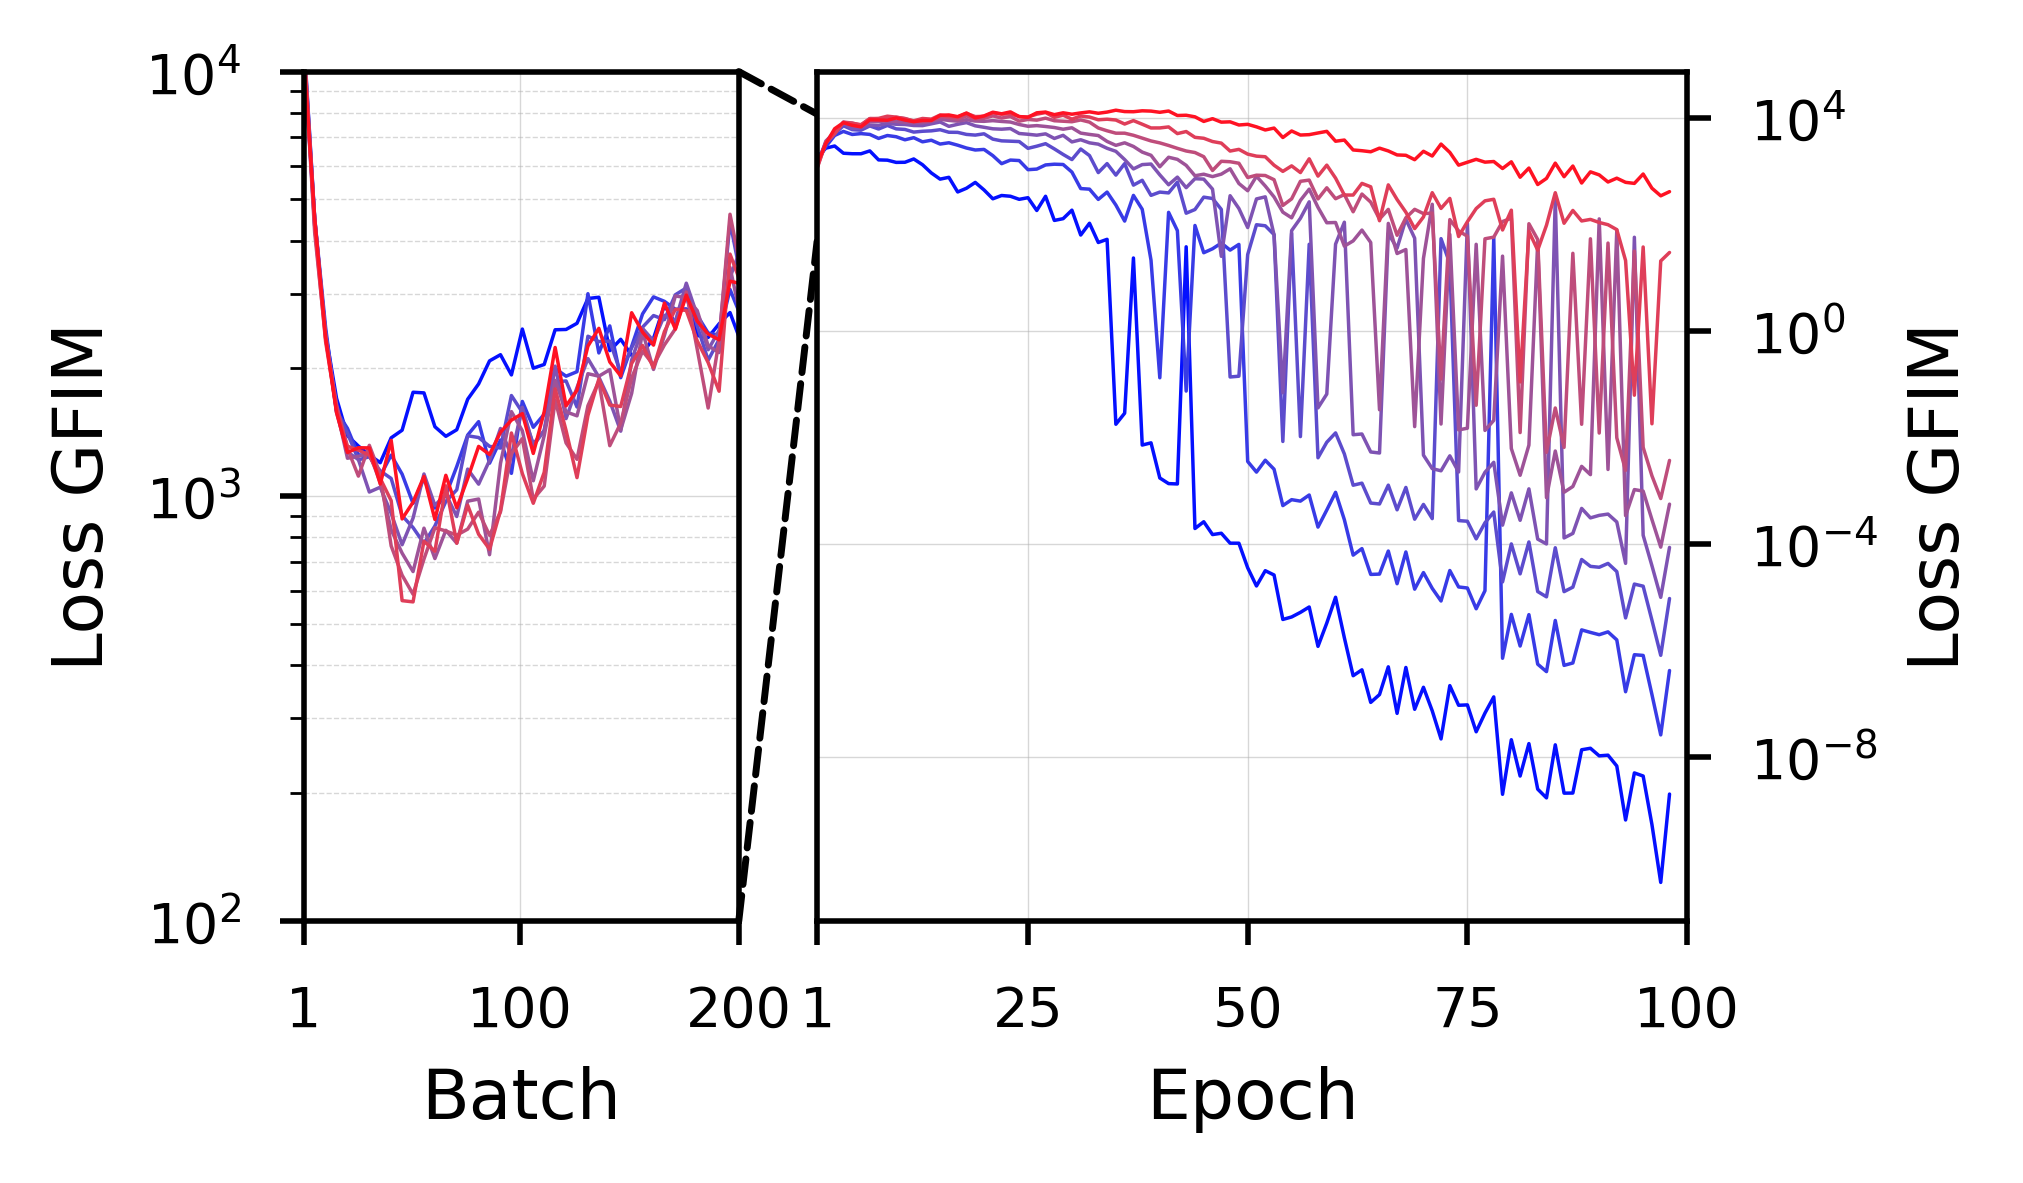
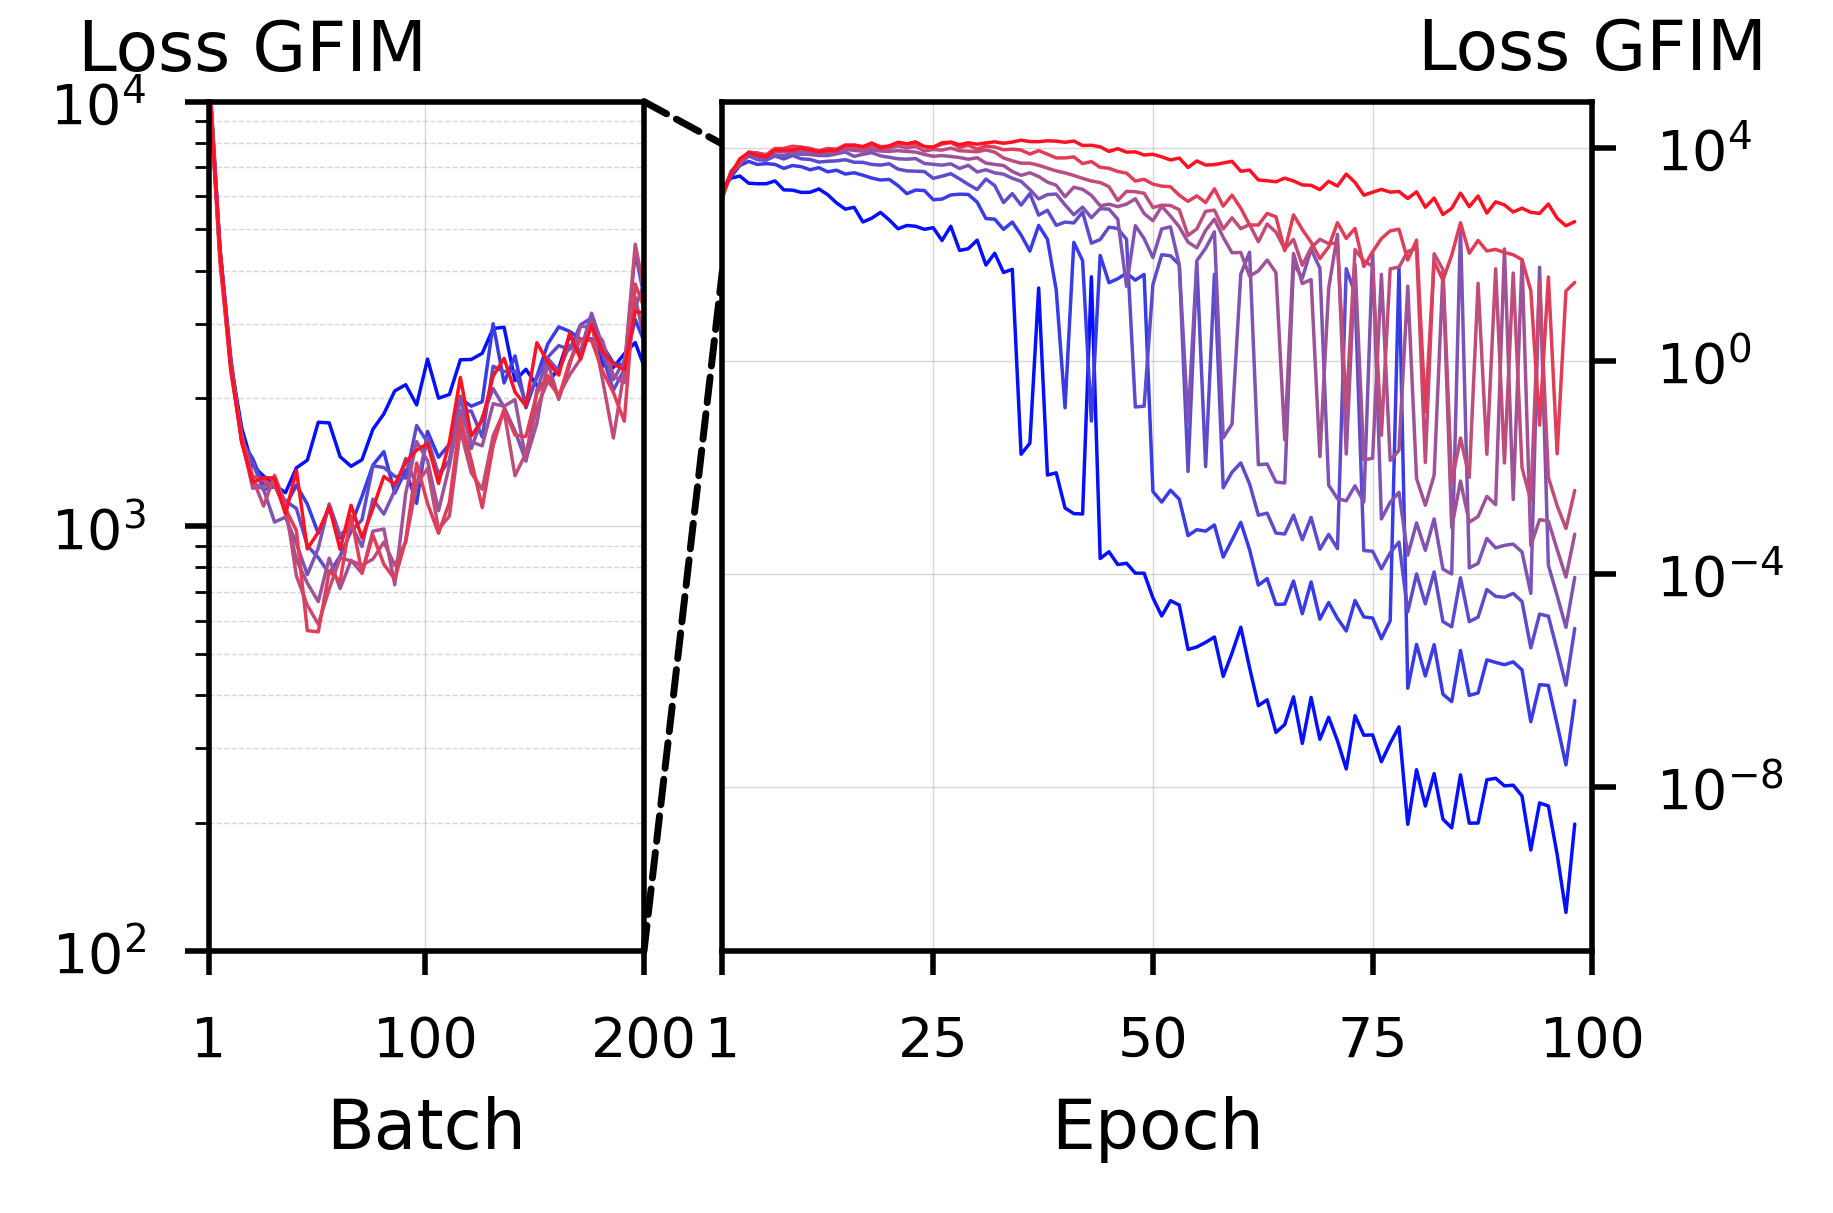
new pics

diff --git a/graphs.py b/graphs.py
@@ -110,9 +110,13 @@ def make_T1GFIM():
     sea.lineplot(ax=ax1,x="Step",y="7",data=T1FIMstep,label="7 (High)",linewidth=linsize,color=cols[7])
     
     #plt.ylabel("T1 GFIM")
-    ax1.set_ylabel("Loss GFIM")
+    ax1.set_ylabel("Loss GFIM",rotation=0)
+    #set y label location to above the y axis
+
     ax1.set_ylim([1,40])
     ax1.yaxis.set_ticks([1,10,20,30,40])
+    ax1.yaxis.set_label_coords(0.1,1.02)
+    #ax1.yaxis.set_label_rotation(90)
 
     ax1.set_xlabel("Batch")
     ax1.set_xlim([1,100])
@@ -141,8 +145,10 @@ def make_T1GFIM():
     ax2.set_xlim([1,70])
     ax2.xaxis.set_ticks([1,20,40,60])
 
-    ax2.set_ylabel("Loss GFIM")
+    ax2.set_ylabel("Loss GFIM",rotation=0)
+    
     ax2.yaxis.set_label_position("right")
+    ax2.yaxis.set_label_coords(1,1.1)
     ax2.yaxis.tick_right()
     ax2.set_yscale('log')
     ax2.yaxis.set_ticks([1e-12,1e-10,1e-8,1e-6,1e-4,1e-2,1e0,1e2,1e4])
@@ -189,9 +195,10 @@ def make_T2GFIM():
     sea.lineplot(ax=ax1,x="Step",y="7",data=FIMstep,label="7 (High)",linewidth=linsize,color=cols[7])
     
     #plt.ylabel("T1 GFIM")
-    ax1.set_ylabel("Loss GFIM")
+    ax1.set_ylabel("Loss GFIM",rotation=0)
     ax1.set_ylim([1,200])
     ax1.yaxis.set_ticks([1,50,100,150,200])
+    ax1.yaxis.set_label_coords(0.1,1.02)
 
     ax1.set_xlabel("Batch")
     ax1.set_xlim([1,100])
@@ -220,10 +227,12 @@ def make_T2GFIM():
     #set the range of x axis
     ax2.set_xlim([1,120])
     ax2.xaxis.set_ticks([1,20,40,60,80,100,120])
+    
 
-    ax2.set_ylabel("Loss GFIM")
+    ax2.set_ylabel("Loss GFIM",rotation=0)
     ax2.yaxis.set_label_position("right")
     ax2.yaxis.tick_right()
+    ax2.yaxis.set_label_coords(1,1.1)
     ax2.set_yscale('log')
     ax2.set_ylim([1e-12,1e4])
     ax2.yaxis.set_ticks([1e-12,1e-10,1e-8,1e-6,1e-4,1e-2,1e0,1e2,1e4])
@@ -271,7 +280,8 @@ def make_T3GFIM():
     sea.lineplot(ax=ax1,x="Step",y="7",data=FIMstep,label="7 (High)",linewidth=linsize,color=cols[7])
     
     #plt.ylabel("T1 GFIM")
-    ax1.set_ylabel("Loss GFIM")
+    ax1.set_ylabel("Loss GFIM",rotation=0)
+    ax1.yaxis.set_label_coords(0.1,1.02)
     ax1.set_ylim([1,2000])
     ax1.set_yscale('log')
     #ax1.yaxis.set_ticks([1,200,400,600,800,1000,1200,1400,1600,1800,2000])
@@ -305,8 +315,9 @@ def make_T3GFIM():
     ax2.set_xlim([1,160])
     ax2.xaxis.set_ticks([1,50,100,150])
 
-    ax2.set_ylabel("Loss GFIM")
+    ax2.set_ylabel("Loss GFIM",rotation=0)
     ax2.yaxis.set_label_position("right")
+    ax2.yaxis.set_label_coords(1,1.1)
     ax2.yaxis.tick_right()
     ax2.set_yscale('log')
     ax2.set_ylim([1e-12,1e5])
@@ -353,7 +364,8 @@ def make_T4GFIM():
     sea.lineplot(ax=ax1,x="Step",y="7",data=FIMstep,label="7 (High)",linewidth=linsize,color=cols[7])
     
     #plt.ylabel("T1 GFIM")
-    ax1.set_ylabel("Loss GFIM")
+    ax1.set_ylabel("Loss GFIM",rotation=0)
+    ax1.yaxis.set_label_coords(0.1,1.02)
     ax1.set_ylim([10,100000])
     ax1.set_yscale('log')
     #ax1.yaxis.set_ticks([1,100000])
@@ -387,7 +399,8 @@ def make_T4GFIM():
     ax2.set_xlim([1,50])
     ax2.xaxis.set_ticks([1,10,20,30,40,50])
 
-    ax2.set_ylabel("Loss GFIM")
+    ax2.set_ylabel("Loss GFIM",rotation=0)
+    ax2.yaxis.set_label_coords(1,1.1)
     ax2.yaxis.set_label_position("right")
     ax2.yaxis.tick_right()
     ax2.set_yscale('log')
@@ -504,32 +517,33 @@ def make_HAMcom():
 
     fig, (ax1,ax2) = plt.subplots(1,2,figsize=set_size(252),width_ratios=[1, 2],gridspec_kw={'wspace': 0.12})
 
-    sea.lineplot(ax=ax2,x="Step",y="0",data=FIMstep,label="0 (Low)",linewidth=linsize,color=cols[0])
-    sea.lineplot(ax=ax2,x="Step",y="1",data=FIMstep,label="1",linewidth=linsize,color=cols[1])
-    sea.lineplot(ax=ax2,x="Step",y="2",data=FIMstep,label="2",linewidth=linsize,color=cols[2])
-    sea.lineplot(ax=ax2,x="Step",y="3",data=FIMstep,label="3",linewidth=linsize,color=cols[3])
-    sea.lineplot(ax=ax2,x="Step",y="4",data=FIMstep,label="4",linewidth=linsize,color=cols[4])
-    sea.lineplot(ax=ax2,x="Step",y="5",data=FIMstep,label="5",linewidth=linsize,color=cols[5])
-    sea.lineplot(ax=ax2,x="Step",y="6",data=FIMstep,label="6",linewidth=linsize,color=cols[6])
-    sea.lineplot(ax=ax2,x="Step",y="7",data=FIMstep,label="7 (High)",linewidth=linsize,color=cols[7])
+    sea.lineplot(ax=ax2,x="Step",y="0",data=FIMstep,label="_nolegend_",linewidth=linsize,color=cols[0])
+    sea.lineplot(ax=ax2,x="Step",y="1",data=FIMstep,label="_nolegend_",linewidth=linsize,color=cols[1])
+    sea.lineplot(ax=ax2,x="Step",y="2",data=FIMstep,label="_nolegend_",linewidth=linsize,color=cols[2])
+    sea.lineplot(ax=ax2,x="Step",y="3",data=FIMstep,label="_nolegend_",linewidth=linsize,color=cols[3])
+    sea.lineplot(ax=ax2,x="Step",y="4",data=FIMstep,label="_nolegend_",linewidth=linsize,color=cols[4])
+    sea.lineplot(ax=ax2,x="Step",y="5",data=FIMstep,label="_nolegend_",linewidth=linsize,color=cols[5])
+    sea.lineplot(ax=ax2,x="Step",y="6",data=FIMstep,label="_nolegend_",linewidth=linsize,color=cols[6])
+    sea.lineplot(ax=ax2,x="Step",y="7",data=FIMstep,label="_nolegend_",linewidth=linsize,color=cols[7])
 
-    sea.lineplot(ax=ax2,x="Step",y="0",data=FIM1step,label="0 (Low)",linewidth=linsize,color=cols[0],linestyle='--')
-    sea.lineplot(ax=ax2,x="Step",y="1",data=FIM1step,label="1",linewidth=linsize,color=cols[1],linestyle='--')
-    sea.lineplot(ax=ax2,x="Step",y="2",data=FIM1step,label="2",linewidth=linsize,color=cols[2], linestyle='--')
-    sea.lineplot(ax=ax2,x="Step",y="3",data=FIM1step,label="3",linewidth=linsize,color=cols[3],linestyle='--')
-    sea.lineplot(ax=ax2,x="Step",y="4",data=FIM1step,label="4",linewidth=linsize,color=cols[4], linestyle='--')
-    sea.lineplot(ax=ax2,x="Step",y="5",data=FIM1step,label="5",linewidth=linsize,color=cols[5], linestyle='--')
-    sea.lineplot(ax=ax2,x="Step",y="6",data=FIM1step,label="6",linewidth=linsize,color=cols[6], linestyle='--')
-    sea.lineplot(ax=ax2,x="Step",y="7",data=FIM1step,label="7 (High)",linewidth=linsize,color=cols[7], linestyle='--')
+    sea.lineplot(ax=ax2,x="Step",y="0",data=FIM1step,label="_nolegend_",linewidth=linsize,color=cols[0],linestyle='-.')
+    sea.lineplot(ax=ax2,x="Step",y="1",data=FIM1step,label="_nolegend_",linewidth=linsize,color=cols[1],linestyle='-.')
+    sea.lineplot(ax=ax2,x="Step",y="2",data=FIM1step,label="_nolegend_",linewidth=linsize,color=cols[2], linestyle='-.')
+    sea.lineplot(ax=ax2,x="Step",y="3",data=FIM1step,label="_nolegend_",linewidth=linsize,color=cols[3],linestyle='-.')
+    sea.lineplot(ax=ax2,x="Step",y="4",data=FIM1step,label="_nolegend_",linewidth=linsize,color=cols[4], linestyle='-.')
+    sea.lineplot(ax=ax2,x="Step",y="5",data=FIM1step,label="_nolegend_",linewidth=linsize,color=cols[5], linestyle='-.')
+    sea.lineplot(ax=ax2,x="Step",y="6",data=FIM1step,label="_nolegend_",linewidth=linsize,color=cols[6], linestyle='-.')
+    sea.lineplot(ax=ax2,x="Step",y="7",data=FIM1step,label="_nolegend_",linewidth=linsize,color=cols[7], linestyle='-.')
 
     ax2.set_xlabel("Epoch")
     ax2.set_xlim([1,20])
     ax2.set_xticks([1,5,10,15,20])
     
-    ax2.set_ylabel("Loss GFIM")
+    ax2.set_ylabel("Loss GFIM",rotation=0)
+    ax2.yaxis.set_label_coords(1,1.1)
     ax2.set_yscale('log')
     ax2.set_yticks([1e-12,1e-10,1e-8,1e-6,1e-4,1e-2,1e0,1e2,1e4])
-    ax2.get_legend().remove()
+    #ax2.get_legend().remove()
 
     ax2.yaxis.set_label_position("right")
     ax2.yaxis.tick_right()
@@ -549,22 +563,28 @@ def make_HAMcom():
     sea.lineplot(ax=ax1,x="Step",y="6",data=FIMstep,label="6",linewidth=linsize,color=cols[6])
     sea.lineplot(ax=ax1,x="Step",y="7",data=FIMstep,label="7 (High)",linewidth=linsize,color=cols[7])
 
-    sea.lineplot(ax=ax1,x="Step",y="0",data=FIM1step,label="0 (Low)",linewidth=linsize,color=cols[0],linestyle='--')
-    sea.lineplot(ax=ax1,x="Step",y="1",data=FIM1step,label="1",linewidth=linsize,color=cols[1],linestyle='--')
-    sea.lineplot(ax=ax1,x="Step",y="2",data=FIM1step,label="2",linewidth=linsize,color=cols[2], linestyle='--')
-    sea.lineplot(ax=ax1,x="Step",y="3",data=FIM1step,label="3",linewidth=linsize,color=cols[3],linestyle='--')
-    sea.lineplot(ax=ax1,x="Step",y="4",data=FIM1step,label="4",linewidth=linsize,color=cols[4], linestyle='--')
-    sea.lineplot(ax=ax1,x="Step",y="5",data=FIM1step,label="5",linewidth=linsize,color=cols[5], linestyle='--')
-    sea.lineplot(ax=ax1,x="Step",y="6",data=FIM1step,label="6",linewidth=linsize,color=cols[6], linestyle='--')
-    sea.lineplot(ax=ax1,x="Step",y="7",data=FIM1step,label="7 (High)",linewidth=linsize,color=cols[7], linestyle='--')
+    sea.lineplot(ax=ax1,x="Step",y="0",data=FIM1step,label="_nolegend_",linewidth=linsize,color=cols[0],linestyle='-.')
+    sea.lineplot(ax=ax1,x="Step",y="1",data=FIM1step,label="_nolegend_",linewidth=linsize,color=cols[1],linestyle='-.')
+    sea.lineplot(ax=ax1,x="Step",y="2",data=FIM1step,label="_nolegend_",linewidth=linsize,color=cols[2], linestyle='-.')
+    sea.lineplot(ax=ax1,x="Step",y="3",data=FIM1step,label="_nolegend_",linewidth=linsize,color=cols[3],linestyle='-.')
+    sea.lineplot(ax=ax1,x="Step",y="4",data=FIM1step,label="_nolegend_",linewidth=linsize,color=cols[4], linestyle='-.')
+    sea.lineplot(ax=ax1,x="Step",y="5",data=FIM1step,label="_nolegend_",linewidth=linsize,color=cols[5], linestyle='-.')
+    sea.lineplot(ax=ax1,x="Step",y="6",data=FIM1step,label="_nolegend_",linewidth=linsize,color=cols[6], linestyle='-.')
+    sea.lineplot(ax=ax1,x="Step",y="7",data=FIM1step,label="_nolegend_",linewidth=linsize,color=cols[7], linestyle='-.')
 
     ax1.set_xlabel("Batch")
     ax1.set_xlim([1,200])
     ax1.set_xticks([1,100,200])
-    ax1.set_ylabel("Loss GFIM")
+    ax1.set_ylabel("Loss GFIM",rotation=0)
+    ax1.yaxis.set_label_coords(0.1,1.02)
     ax1.set_yscale('log')
     ax1.set_ylim([1e0,1e5])
     ax1.get_legend().remove()
+    fig.legend(loc='lower center',ncol=8,frameon=False,bbox_to_anchor=(0.5, -0.18),fontsize=5)
+    legend1 = plt.legend([plt.Line2D([0], [0], color='black', lw=linsize,linestyle='-'),
+                    plt.Line2D([0], [0], color='black', lw=linsize,linestyle='-.')],
+                    ['No Pretraining', 'Pretraining'],
+                    loc='lower center',ncol=2,frameon=False,bbox_to_anchor=(0.2, -0.44),fontsize=5)
 
     con1 = ConnectionPatch(xyA=(1,1),
                         xyB=(0,1),
@@ -573,7 +593,8 @@ def make_HAMcom():
                         axesA=ax1,
                         axesB=ax2,
                         color="black",
-                        linestyle="--",)
+                        linestyle="--",
+                        linewidth=linsize,)
     con2 = ConnectionPatch(xyA=(1,0),
                         xyB=(0,0.7),
                         coordsA="axes fraction",
@@ -581,12 +602,10 @@ def make_HAMcom():
                         axesA=ax1,
                         axesB=ax2,
                         color="black",
-                        linestyle="--",)
+                        linestyle="--",
+                        linewidth=linsize,)
     ax1.add_artist(con1)
     ax1.add_artist(con2)
-    
-
-
 
     fig.savefig("Pics/HAM1.png", bbox_inches='tight', dpi=500)
 
@@ -671,7 +690,8 @@ def make_VIT0001():
     sea.lineplot(ax=ax1,x="Step",y="7",data=FIMstep,label="7 (High)",linewidth=linsize,color=cols[7])
     
     #plt.ylabel("T1 GFIM")
-    ax1.set_ylabel("Loss GFIM")
+    ax1.set_ylabel("Loss GFIM",rotation=0)
+    ax1.yaxis.set_label_coords(0.1,1.02)
     ax1.set_ylim([1e2,10000])
     ax1.set_yscale('log')
     #ax1.yaxis.set_ticks([1,50,100,150,200,250])
@@ -705,7 +725,8 @@ def make_VIT0001():
     ax2.set_yscale('log')
     ax2.yaxis.set_label_position("right")
     ax2.yaxis.tick_right()
-    ax2.set_ylabel("Loss GFIM")
+    ax2.set_ylabel("Loss GFIM",rotation=0)
+    ax2.yaxis.set_label_coords(1,1.1)
     ax2.set_xticks([1,25,50,75,100])
     ax2.set_xlim([1,100])
     ax2.grid(True,which='major',axis='both',linestyle='-',linewidth=0.2,alpha=0.5)
@@ -753,7 +774,8 @@ def make_VIT00001():
     sea.lineplot(ax=ax1,x="Step",y="7",data=FIMstep,label="7 (High)",linewidth=linsize,color=cols[7])
     
     #plt.ylabel("T1 GFIM")
-    ax1.set_ylabel("Loss GFIM")
+    ax1.set_ylabel("Loss GFIM",rotation=0)
+    ax1.yaxis.set_label_coords(0.1,1.02)
     ax1.set_ylim([1e2,1e5])
     ax1.set_yscale('log')
     #ax1.yaxis.set_ticks([1,50,100,150,200,250])
@@ -786,7 +808,8 @@ def make_VIT00001():
     ax2.set_yscale('log')
     ax2.yaxis.set_label_position("right")
     ax2.yaxis.tick_right()
-    ax2.set_ylabel("Loss GFIM")
+    ax2.set_ylabel("Loss GFIM",rotation=0)
+    ax2.yaxis.set_label_coords(1,1.1)
     #ax.set_ylabel("Loss GFIM")
     ax2.set_xticks([1,100,200,300,375])
     ax2.set_xlim([1,375])
@@ -837,7 +860,8 @@ def make_VIT000001():
     sea.lineplot(ax=ax1,x="Step",y="6",data=FIMstep,label="6",linewidth=linsize,color=cols[6])
     sea.lineplot(ax=ax1,x="Step",y="7",data=FIMstep,label="7 (High)",linewidth=linsize,color=cols[7])
     
-    ax1.set_ylabel("Loss GFIM")
+    ax1.set_ylabel("Loss GFIM",rotation=0)
+    ax1.yaxis.set_label_coords(0.1,1.02)
     ax1.set_ylim([1000,100000])
     ax1.set_yscale('log')
     #ax1.yaxis.set_ticks([1,50,100,150,200,250])
@@ -872,7 +896,8 @@ def make_VIT000001():
     ax2.set_ylim([1e2,1e5])
     ax2.yaxis.set_label_position("right")
     ax2.yaxis.tick_right()
-    ax2.set_ylabel("Loss GFIM")
+    ax2.set_ylabel("Loss GFIM",rotation=0)
+    ax2.yaxis.set_label_coords(1,1.1)
     #ax.set_ylabel("Loss GFIM")
     ax2.set_xticks([1,100,200,300,375])
     ax2.set_xlim([1,375])
@@ -901,5 +926,5 @@ def make_VIT000001():
     fig.savefig("Pics/VIT000001.png", bbox_inches='tight', dpi=500)
 
 #make_VIT00001()
-make_T3GFIM()
+make_VIT000001()
 #make_VIT()
